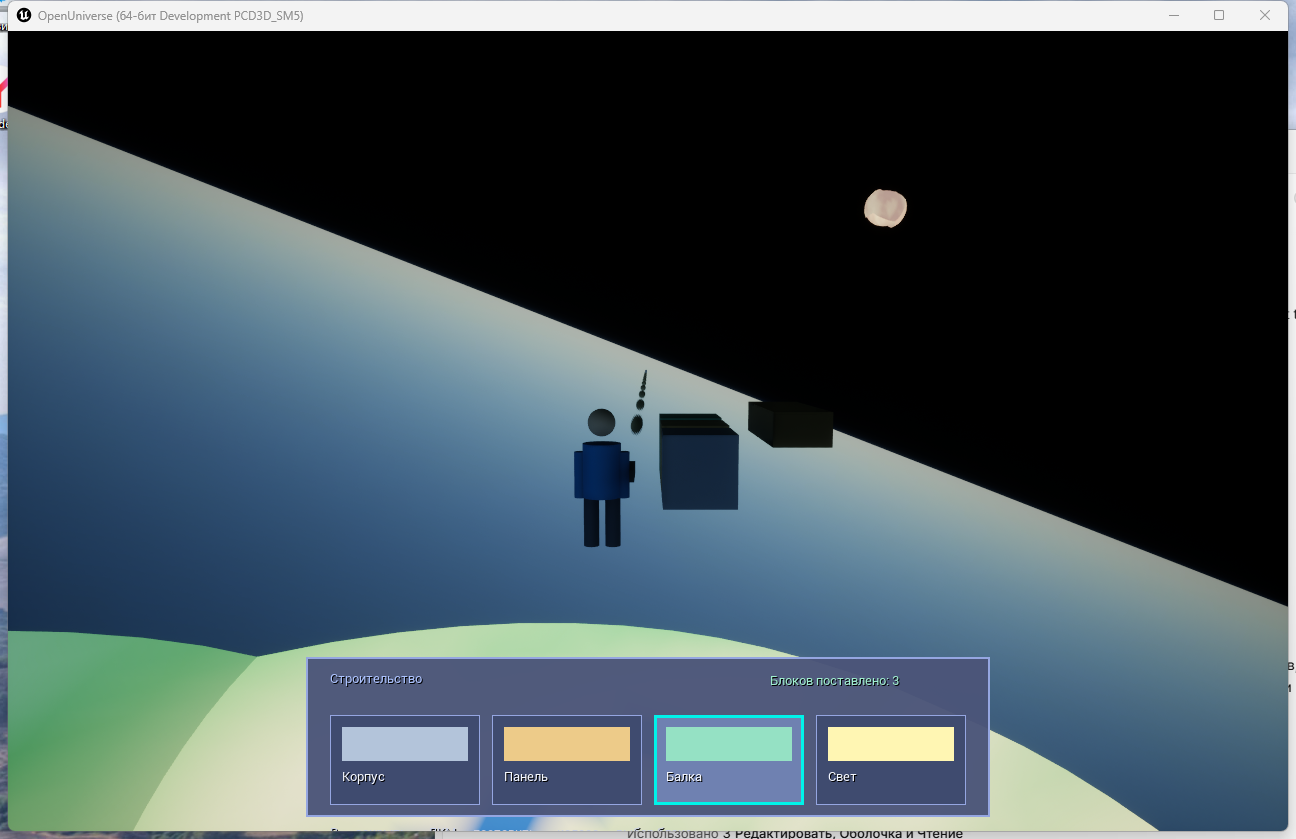
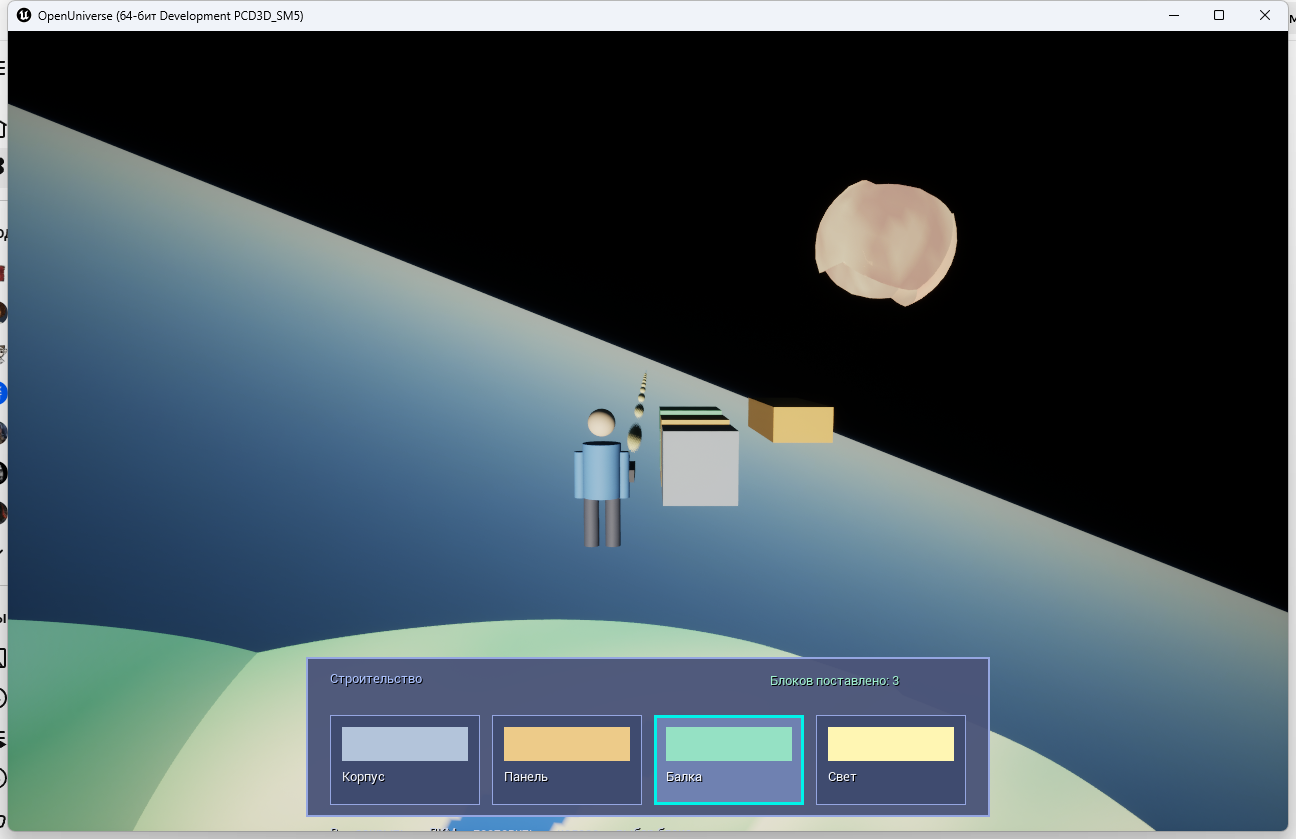
feat(world): grow home planet 8km -> 100km; push system bodies outside it

diff --git a/i18n.js b/i18n.js
@@ -348,7 +348,7 @@ window.OU_I18N = {
     "rep.fig.shipping": "<b>Готовая игра</b> <code>OpenUniverse.exe</code> — собранная Shipping-версия: запускается двойным кликом <b>без установки Unreal Engine</b>. Ставится установщиком <code>OpenUniverse-Game-Setup</code> (~180 МБ): ярлыки в меню «Пуск» и на рабочем столе.",
     "rep.fig.uegame": "Режим игры (PIE) в UE5: персонаж появляется на поверхности планеты, рядом стоит корабль, в небе — тела солнечной системы. Кадр сохранён <b>из движка</b>. Клиент при этом подключён к Rust-серверу.",
     "rep.fig.latest": "<b>Свежий кадр с UE-теста</b> (<code>tools/test-ue.ps1</code>): игрок появляется персонажем на земле, корабль — рядом, горизонт читается как земля, а в небе видны планеты системы. Этот снимок обновляется при каждом прогоне теста.",
-    "rep.fig.solarsystem": "Солнечная система из 4 планет: домашняя (тера), пустынная, ледяная и газовый гигант, плюс звезда. Домашняя планета — радиус 8 км, поэтому горизонт выглядит как земля, а не как шар перед камерой.",
+    "rep.fig.solarsystem": "Солнечная система из 4 планет: домашняя (тера), пустынная, ледяная и газовый гигант, плюс звезда. Домашняя планета — радиус 100 км: горизонт уходит далеко и читается как земля, а не как шар перед камерой.",
     "rep.code.testclient": "$ powershell -File tools/test-client.ps1\n[OK] заголовок прочитан, токен совпал\n[OK] снимок разобран · в снимке три сущности · тик совпал\n[OK] id 1: pos (1169.48, 327.47, 9212.51), yaw 0.3660\n[OK] id 3: pos (-5607.76, 3327.47, 24309.50), yaw 0.1220\n16 проверок · Все проверки пройдены",
     "rep.testclient.note": "Позиции совпадают с сервером до сантиметра, углы — точно. Значит клиент и сервер видят один мир.",
     "rep.s3": "3. Метрики",
@@ -714,7 +714,7 @@ window.OU_I18N = {
     "rep.fig.shipping": "<b>The finished game</b> <code>OpenUniverse.exe</code> — a built Shipping version: it launches on a double click <b>without installing Unreal Engine</b>. It is installed by <code>OpenUniverse-Game-Setup</code> (~180 MB): shortcuts in the Start menu and on the desktop.",
     "rep.fig.uegame": "Play mode (PIE) in UE5: the player spawns as a character on the planet surface, with the ship standing nearby and solar-system bodies in the sky. The frame was saved <b>by the engine</b>. The client is connected to the Rust server.",
     "rep.fig.latest": "<b>Fresh frame from the UE test</b> (<code>tools/test-ue.ps1</code>): the player spawns as a character on the ground, the ship stands nearby, the horizon reads as land, and planets of the system are visible in the sky. This shot is refreshed on every test run.",
-    "rep.fig.solarsystem": "A solar system with 4 planets: home (terran), desert, ice and a gas giant, plus a star. The home planet has an 8 km radius, so the horizon reads as land instead of a ball in front of the camera.",
+    "rep.fig.solarsystem": "A solar system with 4 planets: home (terran), desert, ice and a gas giant, plus a star. The home planet has a 100 km radius, so the horizon reads as land instead of a ball in front of the camera.",
     "rep.code.testclient": "$ powershell -File tools/test-client.ps1\n[OK] header read, token matched\n[OK] snapshot parsed · three entities in the snapshot · tick matched\n[OK] id 1: pos (1169.48, 327.47, 9212.51), yaw 0.3660\n[OK] id 3: pos (-5607.76, 3327.47, 24309.50), yaw 0.1220\n16 checks · all checks passed",
     "rep.testclient.note": "Positions match the server to the centimeter, angles exactly. So the client and the server see one world.",
     "rep.s3": "3. Metrics",

diff --git a/client/Source/OpenUniverse/OUVoxelPlanet.cpp b/client/Source/OpenUniverse/OUVoxelPlanet.cpp
@@ -109,8 +109,8 @@ int32 AOUVoxelPlanet::Segments() const
 	{
 	case EOUVoxelLod::Far:   return 4;
 	case EOUVoxelLod::Mid:   return 8;
-	case EOUVoxelLod::Near:  return 16;
-	case EOUVoxelLod::Close: return 24;
+	case EOUVoxelLod::Near:  return 48;
+	case EOUVoxelLod::Close: return 128;   // крупная планета: мелкая ячейка у поверхности
 	default:                 return 8;
 	}
 }
@@ -229,8 +229,8 @@ FVector AOUVoxelPlanet::HomeSpawnDirectionServer()
 	// обход сферы в СЕРВЕРНЫХ осях, ищем первое «сухое» направление с заметной,
 	// но не пиковой высотой. Результат — в серверных осях.
 	AOUVoxelPlanet* Probe = NewObject<AOUVoxelPlanet>();
-	Probe->Radius = 8000.f;   // серверные единицы (совпадает с ou_sim::HOME_PLANET_RADIUS)
-	Probe->Amplitude = 60.f;
+	Probe->Radius = 100000.f;   // серверные единицы (совпадает с ou_sim::HOME_PLANET_RADIUS)
+	Probe->Amplitude = 2000.f;
 	Probe->Seed = 0xC0FFEE;
 
 	const float Step = 0.15f;
@@ -261,13 +261,13 @@ FVector AOUVoxelPlanet::HomeSpawnDirection()
 
 FVector AOUVoxelPlanet::HomeSpawnServer(float Clearance)
 {
-	// Точка появления в СЕРВЕРНЫХ единицах (радиус 8000, амплитуда 60).
+	// Точка появления в СЕРВЕРНЫХ единицах (радиус 100 000, амплитуда 2000).
 	// Без перевода в UE — чтобы не путаться с масштабом: корабль хранит
 	// позицию именно в серверных единицах.
 	const FVector DirS = HomeSpawnDirectionServer();
 	AOUVoxelPlanet* Probe = NewObject<AOUVoxelPlanet>();
-	Probe->Radius = 8000.f;
-	Probe->Amplitude = 60.f;
+	Probe->Radius = 100000.f;
+	Probe->Amplitude = 2000.f;
 	Probe->Seed = 0xC0FFEE;
 	const float Surface = Probe->SurfaceRadiusAtServer(DirS);
 	return DirS * (Surface + Clearance);

diff --git a/client/Source/OpenUniverse/OUShipPawn.cpp b/client/Source/OpenUniverse/OUShipPawn.cpp
@@ -21,7 +21,7 @@ DEFINE_LOG_CATEGORY_STATIC(LogOUShip, Log, All);
 namespace
 {
 	/** Радиус домашней планеты в серверных единицах (совпадает с сервером). */
-	constexpr double OUPlanetRadius = 8000.0;
+	constexpr double OUPlanetRadius = 100000.0;
 	/** Ускорение свободного падения у поверхности, ед/с² (как на сервере). */
 	constexpr double OUSurfaceGravity = 18.0;
 	/** До какого расстояния (в радиусах) действует гравитация. */
@@ -309,9 +309,9 @@ void AOUShipPawn::StepPrediction(const FOUInputFrame& Input, float Dt)
 	// Без этого гравитация проваливает корабль сквозь планету, и он «не на
 	// планете». Корабль не может быть ниже поверхности.
 	//
-	// ВАЖНО: State.Position — в СЕРВЕРНЫХ единицах (радиус планеты = 1000),
+	// ВАЖНО: State.Position — в СЕРВЕРНЫХ единицах (радиус планеты = 100000),
 	// поэтому и поверхность считаем в тех же единицах: у актора Radius и
-	// Amplitude в сантиметрах UE (100000/3000), приводим их делением на масштаб.
+	// Amplitude в сантиметрах UE, приводим их делением на масштаб.
 	const FVector Rel = State.Position;                    // серверные оси
 	const double Dist = Rel.Size();
 	if (Dist > 1e-6)
@@ -322,7 +322,7 @@ void AOUShipPawn::StepPrediction(const FOUInputFrame& Input, float Dt)
 		const double ToWorld = 1.0 / OUInterop::ServerUnitToCm;
 		const double SurfaceR = Planet
 			? Planet->SurfaceRadiusAtServer(UpS) * ToWorld
-			: 1000.0;
+			: 100000.0;
 		if (Dist < SurfaceR)
 		{
 			// Прижимаем к поверхности и гасим радиальную (внутрь) скорость.

diff --git a/client/Source/OpenUniverse/OUGameMode.cpp b/client/Source/OpenUniverse/OUGameMode.cpp
@@ -219,8 +219,8 @@ void AOUGameMode::BuildWorld()
 	{
 		Home->PlanetType = EOUPlanetType::Terran;
 		Home->bHomePlanet = true;
-		Home->Radius = 800000.f;      // 8 км в UE-сантиметрах (как на сервере)
-		Home->Amplitude = 6000.f;
+		Home->Radius = 10000000.f;     // 100 км в UE-сантиметрах (как на сервере)
+		Home->Amplitude = 200000.f;    // 2 км рельефа
 		Home->BuildPlanet();
 	}
 
@@ -272,11 +272,11 @@ void AOUGameMode::BuildWorld()
 		{
 			AOUSolarBody* Star = World->SpawnActor<AOUSolarBody>(
 				AOUSolarBody::StaticClass(),
-				FTransform(FRotator::ZeroRotator, SkyAt(-25.f, 32.f, 6000000.f)));
+				FTransform(FRotator::ZeroRotator, SkyAt(-25.f, 32.f, 90000000.f)));   // 900 км от центра
 			if (Star)
 			{
 				Star->Kind = EOUSolarKind::Star;
-				Star->BodyRadiusCm = 200000.f;   // 2 км — крупное светило вдали
+				Star->BodyRadiusCm = 6000000.f;   // 60 км — крупное светило вдали
 				Star->BodyColor = FLinearColor(1.0f, 0.86f, 0.35f);
 				Star->BuildBody();
 			}
@@ -289,9 +289,9 @@ void AOUGameMode::BuildWorld()
 		// Дистанции — десятки километров: так планеты выглядят как диски в небе,
 		// а не как близкие шары перед камерой.
 		const FPlanetDef Defs[] = {
-			{ EOUPlanetType::Desert,   18.f, 20.f, 5000000.f, 120000.f },
-			{ EOUPlanetType::Ice,      52.f, 14.f, 6500000.f,  95000.f },
-			{ EOUPlanetType::GasGiant, -48.f, 24.f, 8000000.f, 260000.f },
+			{ EOUPlanetType::Desert,   18.f, 20.f, 50000000.f,  4000000.f },  // 500 км, R 40 км
+			{ EOUPlanetType::Ice,      52.f, 14.f, 80000000.f,  3000000.f },  // 800 км, R 30 км
+			{ EOUPlanetType::GasGiant, -48.f, 24.f, 150000000.f, 9000000.f }, // 1.5 Мкм, R 90 км
 		};
 		for (const FPlanetDef& D : Defs)
 		{

diff --git a/server/crates/sim/src/lib.rs b/server/crates/sim/src/lib.rs
@@ -210,11 +210,13 @@ pub fn integrate(state: &mut EntityState, input: &InputFrame, p: &ShipParams, dt
 
 /// Радиус домашней планеты в игровых единицах (1 ед. = 1 м).
 ///
-/// 8000 ед. = 8 км: горизонт у поверхности уходит на десятки километров,
-/// поэтому планета читается как «земля», а не как маленький шар перед камерой.
-pub const HOME_PLANET_RADIUS: f64 = 8000.0;
-/// Размах рельефа домашней планеты.
-pub const HOME_PLANET_AMPLITUDE: f64 = 60.0;
+/// 100 000 ед. = 100 км: горизонт у поверхности уходит за 600 м, а рельеф
+/// занимает километры, поэтому планета читается как «земля», а не как шар.
+/// Раньше было 8 км — это масштаб крупного астероида; 100 км ближе к реальной
+/// планете и при этом остаётся в безопасной зоне точности float в UE.
+pub const HOME_PLANET_RADIUS: f64 = 100_000.0;
+/// Размах рельефа домашней планеты (2 км) — видны холмы и горизонт.
+pub const HOME_PLANET_AMPLITUDE: f64 = 2000.0;
 /// Семя рельефа (совпадает у сервера и клиента).
 pub const HOME_PLANET_SEED: u64 = 0xC0FFEE;
 

diff --git a/client/Source/OpenUniverse/OUVoxelPlanet.h b/client/Source/OpenUniverse/OUVoxelPlanet.h
@@ -58,13 +58,13 @@ class OPENUNIVERSE_API AOUVoxelPlanet : public AActor
 public:
 	AOUVoxelPlanet();
 
-	/** Радиус планеты (уровень океана), см UE. 8 км — как на сервере (8000 ед. × 100). */
+	/** Радиус планеты (уровень океана), см UE. 100 км — как на сервере (100 000 ед. × 100). */
 	UPROPERTY(EditAnywhere, BlueprintReadWrite, Category = "Open Universe|Planet")
-	float Radius = 800000.f;
+	float Radius = 10000000.f;
 
-	/** Размах рельефа, см. */
+	/** Размах рельефа, см (2 км — горизонт и холмы видны в масштабе планеты). */
 	UPROPERTY(EditAnywhere, BlueprintReadWrite, Category = "Open Universe|Planet")
-	float Amplitude = 6000.f;
+	float Amplitude = 200000.f;
 
 	/** Семя генерации (совпадает с сервером). */
 	UPROPERTY(EditAnywhere, BlueprintReadWrite, Category = "Open Universe|Planet")

diff --git a/server/crates/sim/src/terrain.rs b/server/crates/sim/src/terrain.rs
@@ -389,6 +389,18 @@ mod tests {
     }
 
     #[test]
+    fn home_planet_is_planet_sized() {
+        // Домашняя планета должна быть «планетного» масштаба, а не астероида:
+        // радиус в сотни раз больше рельефа, иначе горизонт читается как шар.
+        let t = crate::home_planet();
+        assert!(t.params.radius >= 50_000.0, "радиус слишком мал: {}", t.params.radius);
+        assert!(
+            t.params.amplitude * 10.0 < t.params.radius,
+            "рельеф слишком крупный для планеты"
+        );
+    }
+
+    #[test]
     fn deterministic_across_seeds() {
         let a = Terrain::new(Vec3::ZERO, TerrainParams { seed: 1, ..Default::default() });
         let b = Terrain::new(Vec3::ZERO, TerrainParams { seed: 1, ..Default::default() });

diff --git a/client/Source/OpenUniverse/OUCharacterPawn.cpp b/client/Source/OpenUniverse/OUCharacterPawn.cpp
@@ -256,7 +256,7 @@ float AOUCharacterPawn::SurfaceRadius(const FVector& DirUE) const
 		return Planet->SurfaceRadiusAt(DirUE);   // см UE
 	}
 	// Запасной вариант: радиус планеты в UE-сантиметрах.
-	return 100000.f;
+	return 10000000.f;
 }
 
 void AOUCharacterPawn::PlaceAt(const FVector& WorldLocation, float LookYawWorld)
